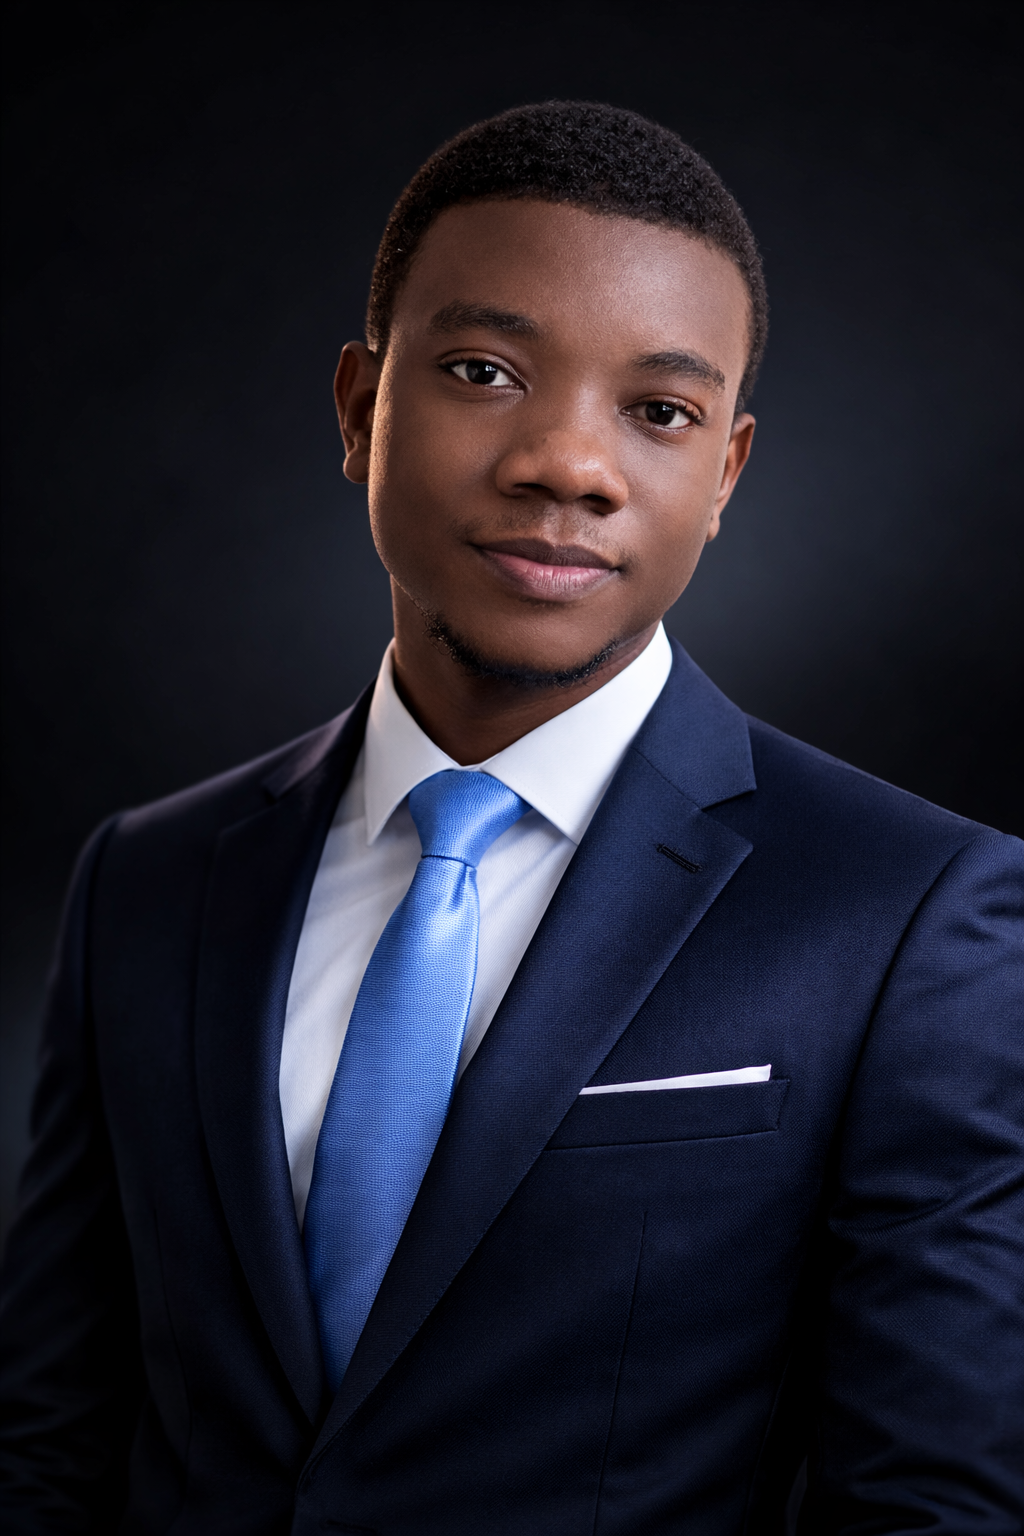
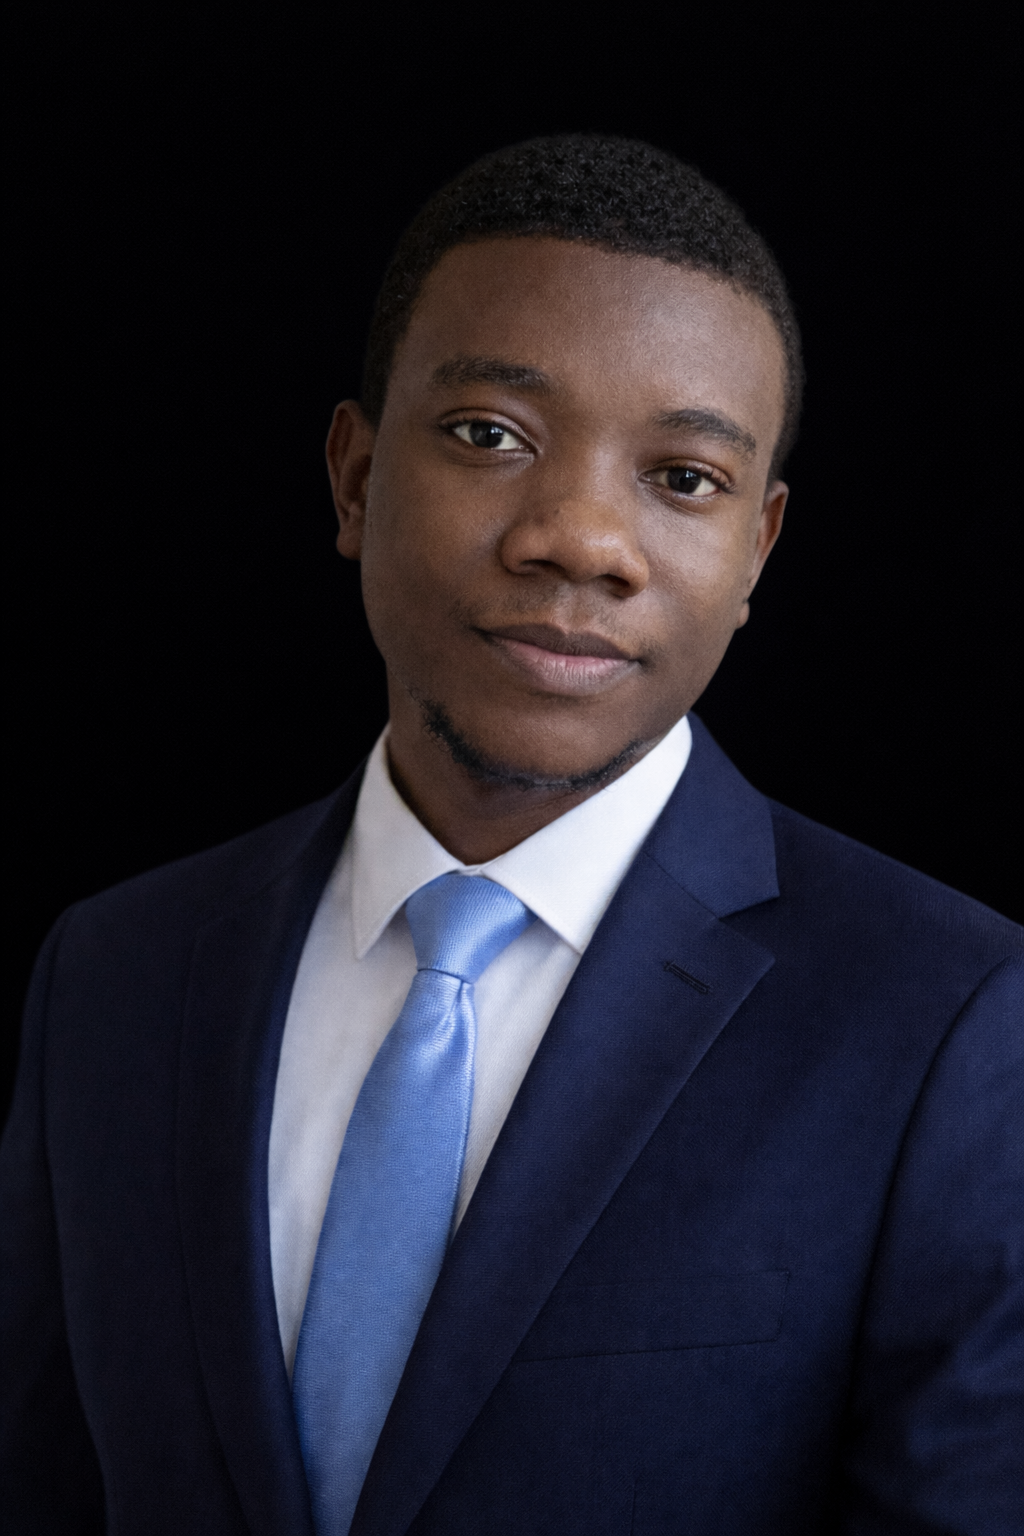
SEO 1

diff --git a/index.html b/index.html
@@ -3,22 +3,44 @@
 <head>
 <meta charset="UTF-8"/>
 <meta name="viewport" content="width=device-width, initial-scale=1.0"/>
-<title>Harqheem — Product Designer | Fintech, AI & Mobile Apps</title>
-<meta name="description" content="Harqheem is a product designer based in Nigeria specialising in fintech dashboards, AI tools, and mobile apps. Available for freelance and full-time opportunities."/>
-<meta name="keywords" content="product designer, UI UX designer, Nigeria, fintech design, AI product design, mobile app design, Figma, Framer"/>
-<meta name="author" content="Harqheem (Akeem S.)"/>
-<meta property="og:title" content="Harqheem — Product Designer"/>
-<meta property="og:description" content="I design products that move people — from fintech dashboards to AI tools. Based in Nigeria, available worldwide."/>
+<title>Product Designer | SaaS & AI Platforms | Harqheem</title>
+<meta name="description" content="Harqheem is a Nigeria-based Product Designer specializing in SaaS platforms, AI tools, and scalable web and mobile applications. Designing user-centered digital products focused on usability and measurable impact.">
+<meta name="author" content="Harqheem (Akeem Ayopelumi Saka)"/>
+<meta name="keywords" content="Product Designer Nigeria, UI UX Designer, SaaS Product Design, AI Product Design, Web App Design, Mobile App Design, Figma, Framer">
+
+<meta property="og:title" content="Product Designer | SaaS & AI Platforms | Harqheem"/>
+<meta property="og:description" content="Nigeria-based Product Designer crafting scalable SaaS platforms, AI tools, and digital products focused on usability and measurable growth."/>
 <meta property="og:type" content="website"/>
-<meta property="og:url" content="https://harqheem-portfolio.framer.website/"/>
+<meta property="og:locale" content="en_NG"/>
+<meta property="og:site_name" content="Harqheem Portfolio"/>
+
 <meta name="twitter:card" content="summary_large_image"/>
-<meta name="twitter:title" content="Harqheem — Product Designer"/>
-<meta name="twitter:description" content="Designing products that move people — fintech, AI tools, mobile apps."/>
-<link rel="icon" href="FavIcon.png" type="image/png"/><!-- Replace favicon.png with your own icon file -->
+<meta name="twitter:title" content="Harqheem — Product Designer | SaaS & AI Platforms"/>
+<meta name="twitter:description" content="Nigeria-based Product Designer crafting scalable SaaS platforms, AI tools, and digital products focused on usability and measurable growth."/><link rel="icon" href="FavIcon.png" type="image/png"/><!-- Replace favicon.png with your own icon file -->
 <link rel="preconnect" href="https://fonts.googleapis.com"/>
 <link rel="preconnect" href="https://fonts.gstatic.com" crossorigin/>
 <link href="https://fonts.googleapis.com/css2?family=Bebas+Neue&family=DM+Serif+Display:ital@0;1&family=Inter:wght@300;400;500;600;700&display=swap" rel="stylesheet"/>
 <link rel="stylesheet" href="style.css"/>
+
+<script type="application/ld+json">
+{
+  "@context": "https://schema.org",
+  "@type": "Person",
+  "name": "Harqheem",
+  "alternateName": "Akeem Ayopelumi Saka",
+  "jobTitle": "Product Designer",
+  "url": "https://harqheem-portfolio.framer.website/",
+  "sameAs": [
+    "https://www.linkedin.com/in/harqheem/",
+    "https://dribbble.com/Harqheem"
+  ],
+  "address": {
+    "@type": "PostalAddress",
+    "addressCountry": "Nigeria"
+  }
+}
+</script>
+
 </head>
 <body>
 
@@ -63,7 +85,8 @@
 <section id="hero">
   <div class="hero-bg-text">DESIGN</div>
 
-  <div class="hero-eyebrow">Available for work · Based in Nigeria</div>
+  <!--<div class="hero-eyebrow">Available for work · Based in Nigeria</div>-->
+  
 
   <h1 class="hero-headline">
     Turning ideas<br/>
@@ -78,7 +101,7 @@
         Available for new projects
       </div>
       <p class="hero-desc">
-        I'm Harqheem, a product designer from Nigeria crafting product dashboards, AI tools, and mobile apps that solve real problems and feel effortless to use.
+        I'm Harqheem, a Nigeria-based Product Designer specializing in SaaS platforms, AI tools, and scalable digital products focused on usability and measurable growth.
       </p>
       <div class="hero-cta-group">
         <a href="#projects" class="btn-primary">
@@ -210,7 +233,7 @@
       <h2 class="section-headline">The person<br/>behind the<br/><em>pixels.</em></h2>
       <div class="about-image-wrap">
         <div class="about-image">
-          <img class="portrait-dark" src="Hakeem Potrait.png" alt="Harqheem — Product Designer photo" style="width:100%;height:100%;object-fit:cover;object-position:center top;"/>
+          <img class="portrait-dark" src="Hakeem Potrait dark.png" alt="Harqheem — Product Designer photo" style="width:100%;height:100%;object-fit:cover;object-position:center top;"/>
           <img class="portrait-light" src="Hakeem Potrait.png" alt="Harqheem — Product Designer photo" style="position:absolute;inset:0;width:100%;height:100%;object-fit:cover;object-position:center top;"/>
         </div>
         <div class="about-image-badge">
